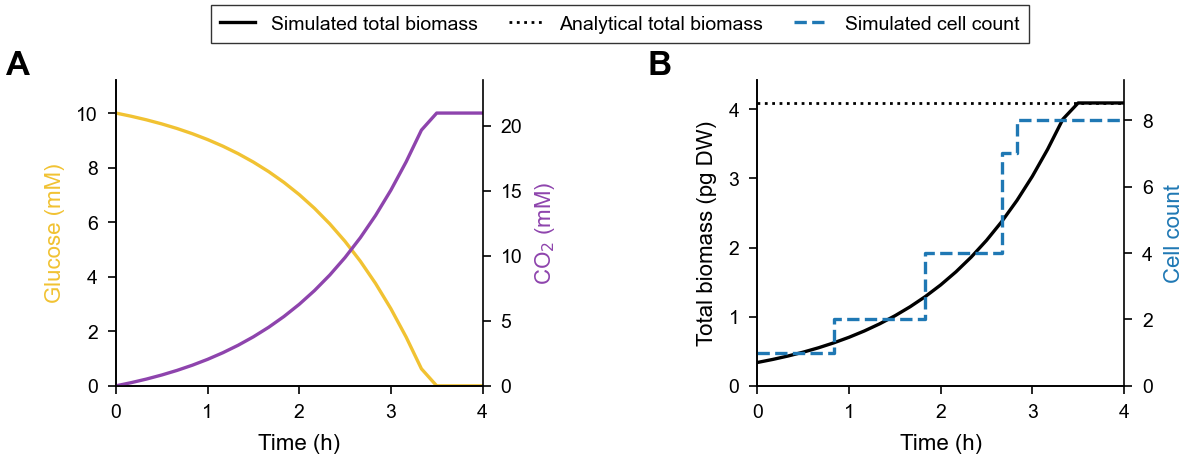
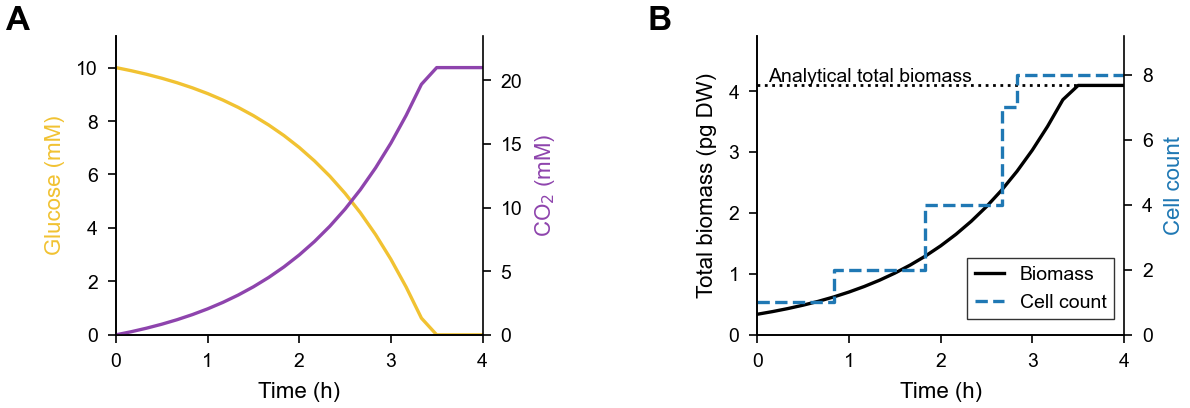
Fig. 2: no top legend; annotated analytical line, legend inside panel B, lower height

diff --git a/usecases/unit_test/scripts/make_figure.py b/usecases/unit_test/scripts/make_figure.py
@@ -23,12 +23,13 @@ print("FBA at the configured Vmax: mu %.4f 1/h, q_glc %.3f mmol/gDW/h, yield %.4
 ana = bio[0] + (mu / qg) * (10e-3 * 4096e-15 * 1e3) * 1e12
 print("final biomass %.3f pg, analytical %.3f pg (%.2f%%), cells %d, glucose at the end %.2e mM" % (bio[-1], ana, 100 * (bio[-1] / ana - 1), n[-1], glc[-1]))
 FW, FH = 6.3, 2.5; apply_style(FW)
-fig, (a, b) = plt.subplots(1, 2, figsize=(FW, 2.35), dpi=200, gridspec_kw=dict(wspace=0.75, left=0.10, right=0.90, bottom=0.17, top=0.82))   # panels side by side
+fig, (a, b) = plt.subplots(1, 2, figsize=(FW, 2.05), dpi=200, gridspec_kw=dict(wspace=0.75, left=0.10, right=0.90, bottom=0.22, top=0.95))   # panels side by side
 a.plot(t[k], glc[k], color=SC["glucose"]); a.set_ylabel("Glucose (mM)", color=SC["glucose"]); a.set_ylim(0, 1.12 * glc.max())
 a2 = a.twinx(); a2.plot(t[k], co2[k], color=SC["co2"]); a2.set_ylabel("CO$_2$ (mM)", color=SC["co2"]); a2.set_ylim(0, 1.12 * co2.max()); a2.spines["right"].set_visible(True)
 l1, = b.plot(t[k], bio[k], "k-", label="Simulated total biomass"); l2 = b.axhline(ana, color="k", ls=":", lw=1.0, label="Analytical total biomass")
-a.set_xlabel("Time (h)"); a.set_xlim(0, TMAX); b.set_ylabel("Total biomass (pg DW)"); b.set_ylim(0, 1.08 * max(ana, bio.max())); b.set_xlabel("Time (h)"); b.set_xlim(0, TMAX)
+a.set_xlabel("Time (h)"); a.set_xlim(0, TMAX); b.set_ylabel("Total biomass (pg DW)"); b.set_ylim(0, 1.2 * max(ana, bio.max())); b.set_xlabel("Time (h)"); b.set_xlim(0, TMAX)
 b2 = b.twinx(); l3, = b2.step(t[k], n[k], where="post", color="#1f78b4", ls="--", label="Simulated cell count"); b2.set_ylabel("Cell count", color="#1f78b4"); b2.set_ylim(0, 1.15 * n.max()); b2.spines["right"].set_visible(True)
-fig.legend([l1, l2, l3], [l.get_label() for l in (l1, l2, l3)], loc="upper center", bbox_to_anchor=(0.5, 1.0), handlelength=1.8, columnspacing=1.6, ncol=3, frameon=True, fancybox=False, edgecolor="black", borderpad=0.5).get_frame().set_linewidth(0.5)
+b.text(0.03 * TMAX, ana, "Analytical total biomass", ha="left", va="bottom", fontsize=FS["legend"])
+b2.legend([l1, l3], ["Biomass", "Cell count"], loc="lower right", bbox_to_anchor=(1.0, 0.02), handlelength=1.5, frameon=True, fancybox=False, edgecolor="black", borderpad=0.4).get_frame().set_linewidth(0.5)
 a.text(-0.30, 1.02, "A", transform=a.transAxes, fontsize=FS["letter"], fontweight="bold"); b.text(-0.30, 1.02, "B", transform=b.transAxes, fontsize=FS["letter"], fontweight="bold")
 fig.savefig(out + ".png", bbox_inches="tight", pad_inches=0.03, facecolor="white"); fig.savefig(out + ".pdf", bbox_inches="tight", pad_inches=0.03, facecolor="white")
